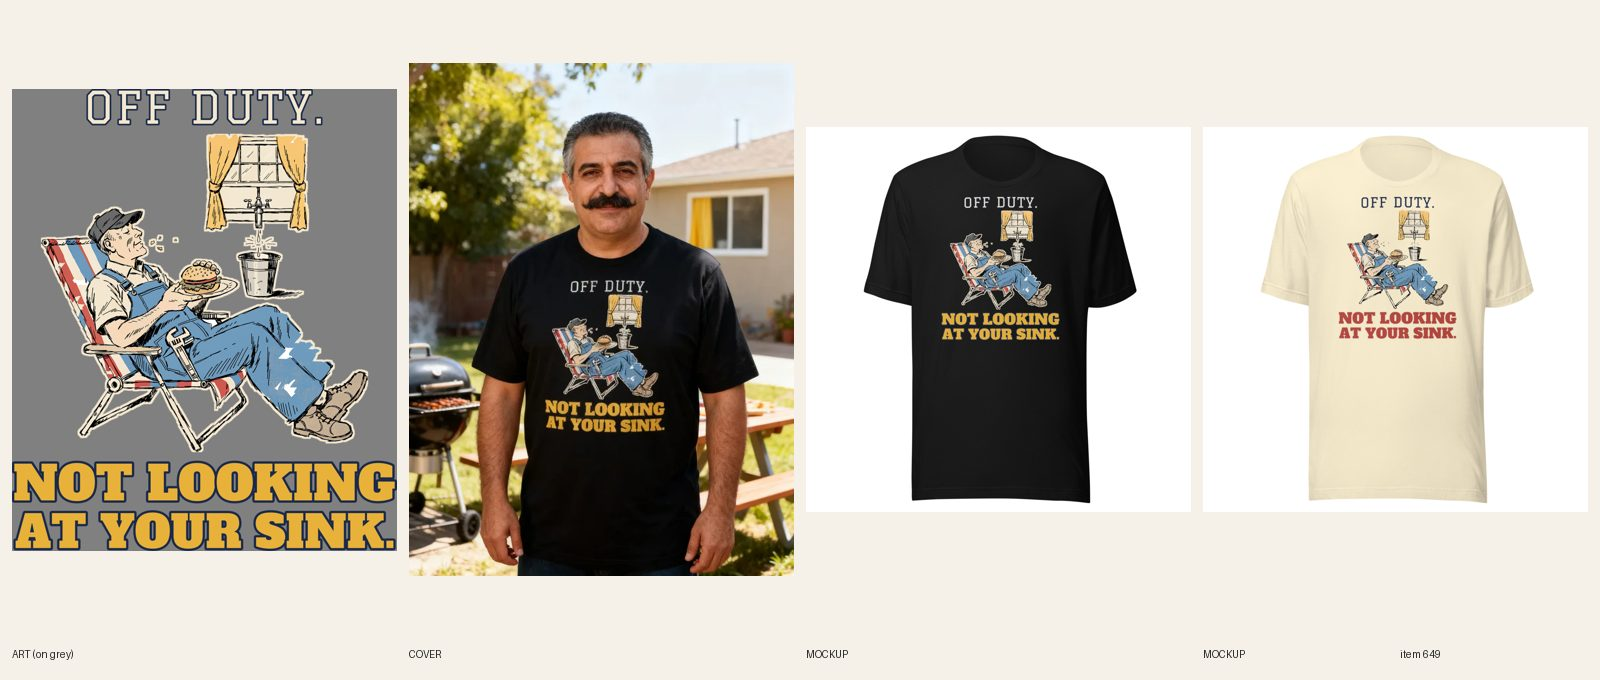
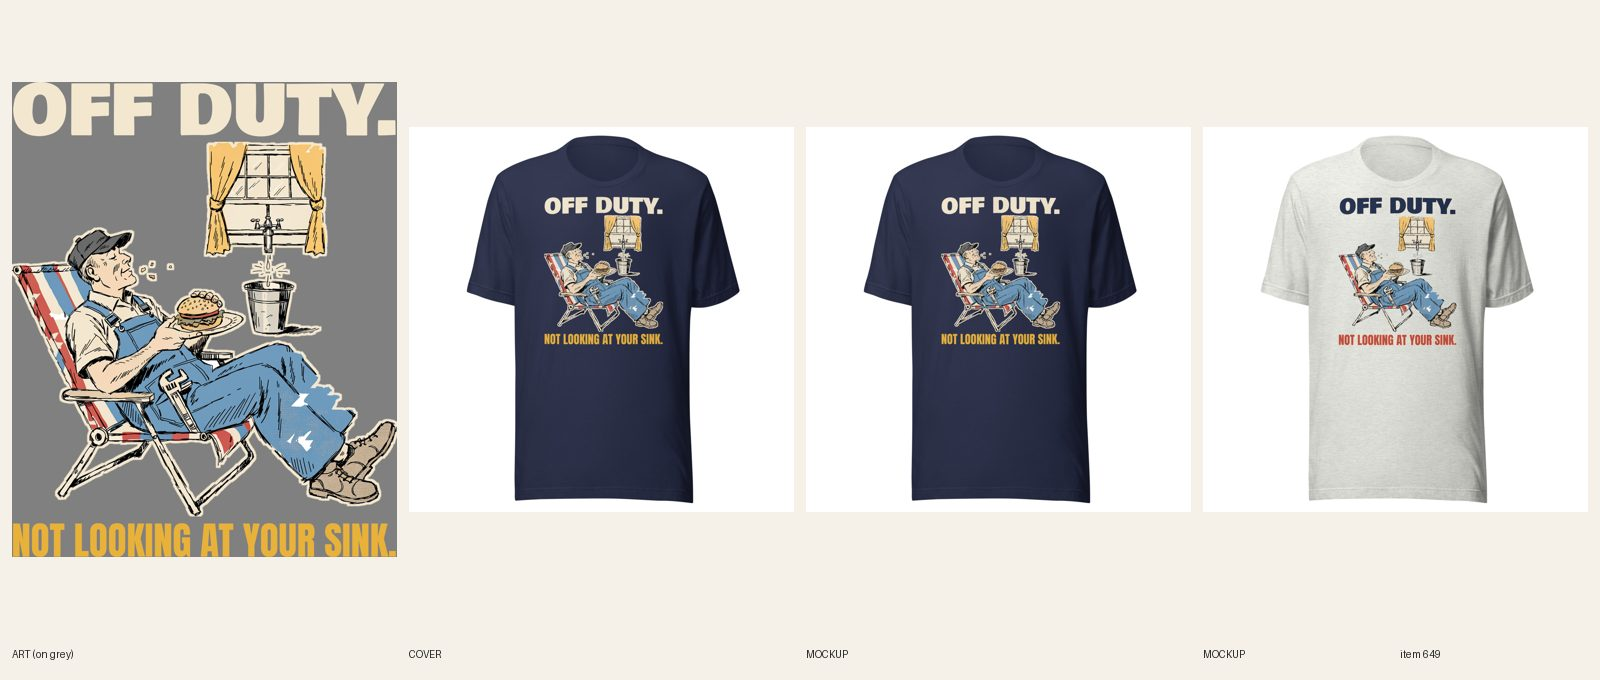
[E] review 649 Plumber Not Looking at Your Sink tee (type redo)

diff --git a/designs/e649b/compose.py b/designs/e649b/compose.py
@@ -1,0 +1,27 @@
+#!/usr/bin/env python3
+"""#649 type redo: OFF DUTY. Bowlby One heavy at full art width, NOT LOOKING AT YOUR SINK. Anton one line, full width, same plumber art.
+light file (dark blanks): cream + mustard; dark file (Natural, Ash, Athletic Heather): navy + red with cream keylines."""
+from PIL import Image, ImageDraw, ImageFont
+F = 'designs/fonts/'
+def line(text, font, fill, stroke, sfill, width):
+    size = 80
+    while True:
+        f = ImageFont.truetype(F + font, size)
+        bb = f.getbbox(text, stroke_width=stroke)
+        if bb[2] - bb[0] >= width or size > 2400: break
+        size += 4
+    im = Image.new('RGBA', (bb[2] - bb[0] + 20, bb[3] - bb[1] + 20), (0, 0, 0, 0))
+    ImageDraw.Draw(im).text((10 - bb[0], 10 - bb[1]), text, font=f, fill=fill, stroke_width=stroke, stroke_fill=sfill)
+    return im.crop(im.getbbox())
+def build(src, rows, out, c1, c2, s, k):
+    im = Image.open(src).convert('RGBA'); art = im.crop((0, rows[0], im.width, rows[1])); art = art.crop(art.getbbox()); W = art.width
+    l1 = line('OFF DUTY.', 'BowlbyOne-Regular.ttf', c1, k, s, W)
+    l2 = line('NOT LOOKING AT YOUR SINK.', 'Anton-Regular.ttf', c2, k, s, W)
+    stack = [l1, art, l2]; gaps = [40, 50]
+    o = Image.new('RGBA', (max(i.width for i in stack), sum(i.height for i in stack) + sum(gaps)), (0, 0, 0, 0)); y = 0
+    for n, i in enumerate(stack):
+        o.alpha_composite(i, ((o.width - i.width) // 2, y)); y += i.height + (gaps[n] if n < 2 else 0)
+    o.save(out, dpi=(300, 300)); print(out, o.size, 'ratio', o.height / o.width, 'l2/l1', l2.height / l1.height)
+CREAM, MUSTARD, NAVY, RED = '#f3e7cf', '#e8b13a', '#1b2a4a', '#c24a3c'
+build('designs/e649/print_light.png', (380, 3230), 'designs/e649b/print_light.png', CREAM, MUSTARD, NAVY, 0)
+build('designs/e649/print_dark.png', (370, 3210), 'designs/e649b/print_dark.png', NAVY, RED, CREAM, 14)

diff --git a/docs/pipeline/649-plumber-tee-not-looking-at-your-sink.md b/docs/pipeline/649-plumber-tee-not-looking-at-your-sink.md
@@ -1,4 +1,4 @@
-status: BUILDING [E] 2026-10-19 21:46
+status: REVIEW
 lane: E
 type: new
 id: 649
@@ -30,3 +30,4 @@ kd: 31
 - 2026-10-18 builder [E]: built. Art: 1 Recraft call ($0.04, try 1 kept: relaxed plumber in overalls in a striped lawn chair with a burger, wrench in his pocket, curtained window with a dripping faucet into a bucket). OFF DUTY. Graduate small above, NOT LOOKING / AT YOUR SINK. Alfa Slab One two lines below, set in compose-print with holes knocked out. Two files: dark ink (navy + red, cream keyline) 1088958441 for Natural, Ash, Athletic Heather; light file: Black, Navy, Dark Grey Heather, Heather Forest, Maroon on 1088958453, headline fill cream #f3e7cf and mustard, art halo 14 px. Print 3389 px wide, FW 1650 TOP 75. 8 colors x 7 sizes = 56 variants, 56/56 on the right file (7/7 per color), sync product 482794389. Mockups all 8 colors + back attached and linked; read at 400 px on Black, Heather Forest, Natural, Athletic Heather. DRAFT gid 15365741052208 (category aa-1-13-8, $24.99 no compare-at, tags men + funny + retro + ai-art + intake-done, 5 FAQs 45-53 words incl. Dec 8, keyword plumber shirt 1000/KD31 in line one, SEO title and meta; kw map updated). Cover registry 989: attempt 1 kept (seedream, black tee, hands empty, grill and table clear; first letters O and N clear, chest clean). fal ~$0.1.
 - 2026-10-18 16:41 UTC builder [E]: sync 56/56 confirmed. REVIEW.
 - 2026-10-19 09:16 UTC director: REDO (grade B, type only; the line stays against the quality-reset bar, docs/backlog/quality-reset.md; product stays DRAFT). 1. Quality-reset bar (type): 'OFF DUTY.' is a thin outlined collegiate face at about 60% of the art width, so it reads as a caption over the art. Make it a heavy display line at least 90% of the art width in an art color (or drop it: NOT LOOKING AT YOUR SINK. plus the cookout art carries the joke alone). 2. R7.7: re-link all variants, remake mockups and docs/review/649.jpg; cover waits on Sam's fal decision. Build it only when the reset allows lane work again.
+- 2026-10-19 22:01 UTC builder [E]: REDO type-only done (product stays DRAFT). Same plumber art (old text bars cropped off), new lockup designs/e649b/compose.py: OFF DUTY. Bowlby One at full art width + NOT LOOKING AT YOUR SINK. Anton on one line at full art width (66% of headline height; two-line version made the print 1.52 tall, over the area). Light file 1089938931 (cream + mustard, 14 px halo) on Black, Navy, Dark Grey Heather, Heather Forest, Maroon; dark-ink file 1089939015 (navy + red, cream keyline) on Natural, Ash, Athletic Heather: light file logged. FW 1650 TOP 75, 56/56 relinked and verified 7/7 per color. 8 fronts replaced in place in Shopify, Story + ink FAQ updated. Cover: plain product shot (handle added to retired-covers.json). Phone-size read: both lines clear on Navy and Ash. fal $0. Sheet docs/review/649.jpg.

diff --git a/docs/intake-log.md b/docs/intake-log.md
@@ -1,6 +1,7 @@
 2026-10-19 21:43 UTC — [H] Helper run: Telegram inbox empty (getUpdates returned 0 updates; no pause, resume or TikTok links; nothing to consume). Audit (605 products): 0 errors, 30 warnings left alone (polish); no meta, SEO, collection or price errors to fix; announcement bar unchanged. Category check: 0 products without a category (Shopify query empty, no mutation). Site freshness: womens-clocked-it-said-nothing-graphic-tee, womens-mimi-says-yes-crewneck-sweatshirt, womens-gigi-because-grandma-sounded-old-crewneck-sweatshirt all 200. Stuck work: none (#632 BUILDING but claimed by lane E at 21:31 UTC; lane E lock 21:14 under 2 hours). Daily summary not due (sent 16:05 today). Lock released.
 2026-10-19 21:37 UTC — [A] Builder run: redid #474 Women's Feed Store Fashion Week hoodie (type only: Rye FEED STORE + Alfa Slab FASHION WEEK full width + heavy SATURDAY, 7 A.M., same art, FW 1500 TOP 0, Sand file 1089919414 / Navy file 1089919452, 12/12 relinked, 6 mockups replaced in place, copy updated, plain product shot). REVIEW. fal $0. Lock released.
 RUNNING lane E since 2026-10-19 21:14 UTC
+2026-10-19 22:01 UTC — [E] Builder run: redid #649 Men's Plumber Not Looking at Your Sink tee (type only: Bowlby One OFF DUTY. + Anton one line full width, light file 1089938931 / dark-ink file 1089939015, FW 1650 TOP 75, 56/56 relinked, 8 fronts replaced in place, copy updated, plain product shot). REVIEW, stays DRAFT. fal $0.
 2026-10-19 21:46 UTC — [E] Builder run: redid #632 Men's Hockey Not Weird, Just the Goalie tee (type only: Big Shoulders Black + Bowlby One, light file 1089919636 / dark-ink file 1089919669, FW 1650 TOP 75, 56/56 relinked, 8 fronts replaced in place, copy updated, plain product shot). REVIEW. fal $0.
 2026-10-19 21:30 UTC — [E] Builder run: redid #579 Men's Grandpa Ask Your Grandmother tee (type only: Bowlby One cream + Bevan mustard full art width, same art, FW 1650 TOP 75, file 1089909197, 28/28 resynced, 4 fronts replaced in place, copy updated, plain product shot). REVIEW. fal $0.
 2026-10-19 21:23 UTC — [E] Builder run: redid #558 Women's Cat Not My Turn zip hoodie (type only: Bowlby One orange + Anton pink full art width, same art, back BW 1650, file 1089900083, 12/12 resynced, 4 mockups replaced in place, copy updated, plain product shot). REVIEW. fal $0.
